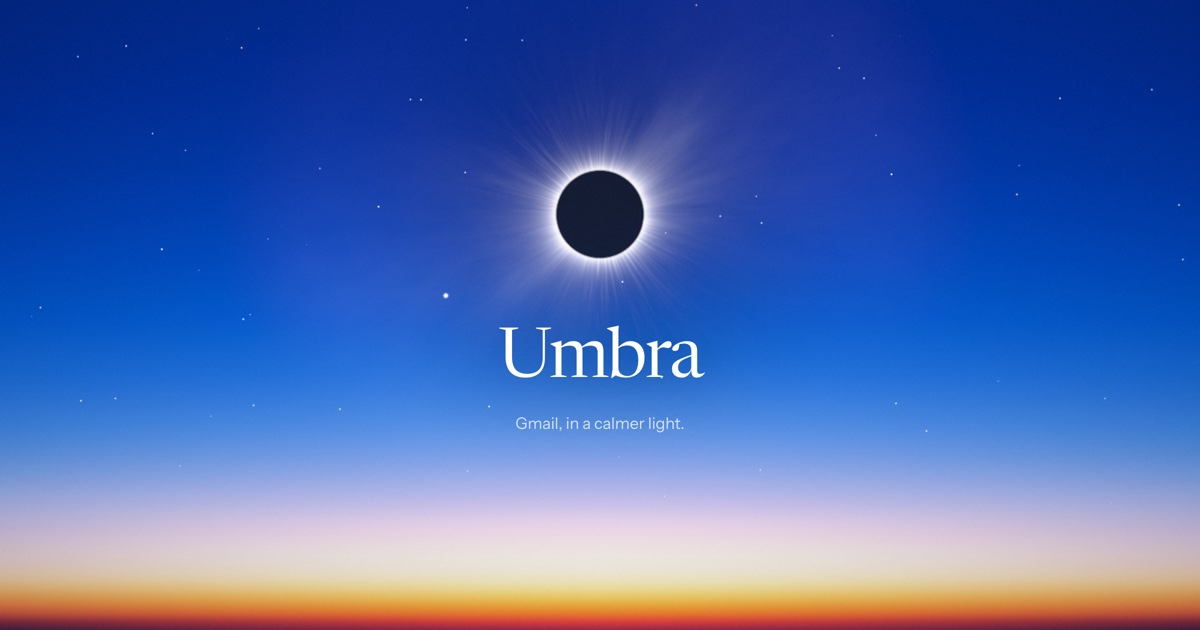
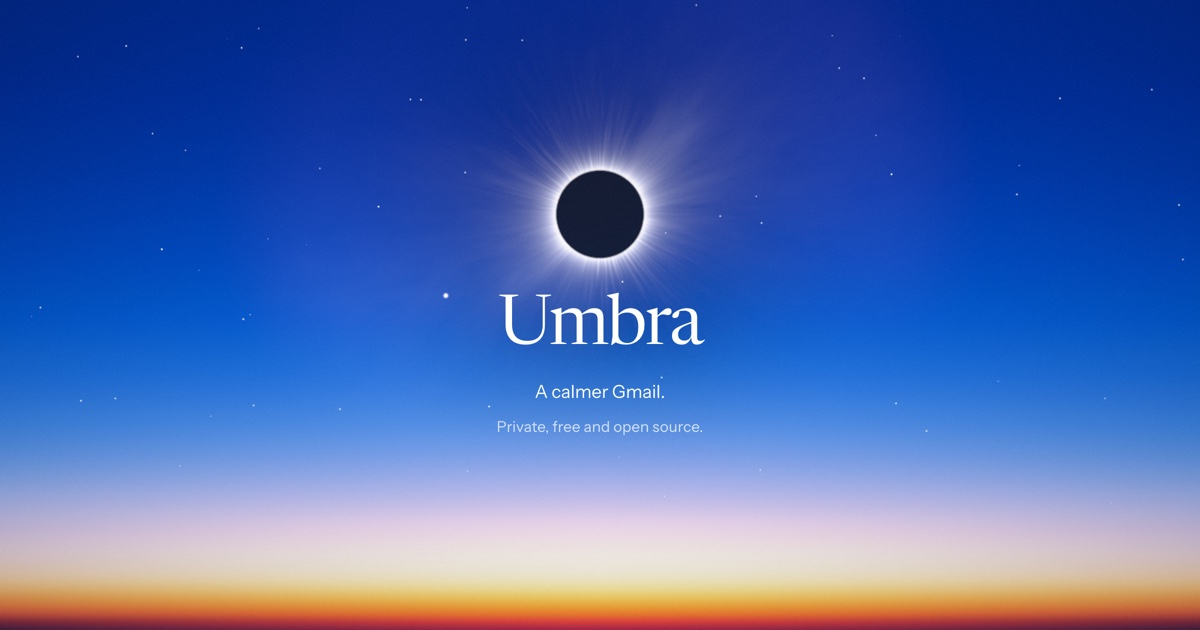
Plain words: "A calmer Gmail." Private, free and open source
- Site: the plain tagline, four plain notes under the demo, Install
- The welcome: "A calmer Gmail.", "What Umbra does", "Do you want AI?"
- The same description for the userscript, the extension and the store
- The site's window moves with the page; the demo loads from /demo

Changed region(s): [[0.4008, 0.4524, 0.5858, 0.6333], [0.4008, 0.6635, 0.5858, 0.6937]]

diff --git a/site/index.html b/site/index.html
@@ -3,8 +3,8 @@
 <head>
 <meta charset="utf-8">
 <meta name="viewport" content="width=device-width, initial-scale=1">
-<title>Umbra · Gmail, in a calmer light</title>
-<meta name="description" content="A calmer Gmail. Mail in tides, a morning paper, AI only if you want it. Umbra collects zero data.">
+<title>Umbra · A calmer Gmail</title>
+<meta name="description" content="A calmer, private Gmail. New mail comes a few times a day, newsletters go in one page, and AI is optional. No tracking, no server, open source.">
 <meta name="author" content="Mason Chen">
 <meta name="color-scheme" content="dark">
 <meta name="theme-color" content="#011a5c">
@@ -14,8 +14,8 @@
 <link rel="apple-touch-icon" href="/icon128.png">
 <meta property="og:type" content="website">
 <meta property="og:url" content="https://umbra.masn.studio/">
-<meta property="og:title" content="Umbra · Gmail, in a calmer light">
-<meta property="og:description" content="A calmer Gmail. Mail in tides, a morning paper, AI only if you want it. Umbra collects zero data.">
+<meta property="og:title" content="Umbra · A calmer Gmail">
+<meta property="og:description" content="A calmer, private Gmail. New mail comes a few times a day, newsletters go in one page, and AI is optional. No tracking, no server, open source.">
 <meta property="og:image" content="https://umbra.masn.studio/og.jpg">
 <meta property="og:image:width" content="1200">
 <meta property="og:image:height" content="630">
@@ -38,25 +38,27 @@
 
 <section class="hero">
   <h1 class="in">Umbra</h1>
-  <p class="tag in">Gmail, in a calmer light.</p>
+  <p class="tag in">A calmer Gmail.</p>
+  <p class="sub in">Private, free and open source.</p>
   <div class="cta in"><a class="btn main" href="#install">Install</a></div>
 </section>
 
 <main>
-  <section class="show" aria-label="Umbra, in action">
+  <section class="show" aria-label="What Umbra looks like">
     <div class="window">
       <div class="bar" aria-hidden="true"><i></i><i></i><i></i><span>mail.google.com</span></div>
-      <div class="screen"><iframe id="demo" src="/demo.html" title="Umbra, in action: an inbox that's made up" tabindex="-1" loading="lazy"></iframe></div>
+      <div class="screen"><iframe id="demo" src="/demo" title="A demo of Umbra, with made-up emails" tabindex="-1" loading="lazy"></iframe></div>
     </div>
     <ul class="notes">
-      <li>Mail in tides</li>
-      <li>A morning paper</li>
-      <li>AI, only if you want it</li>
+      <li>New mail a few times a day</li>
+      <li>Newsletters in one page</li>
+      <li>Optional AI</li>
+      <li>Nothing leaves your computer</li>
     </ul>
   </section>
 
   <section class="block install" id="install">
-    <h2>Calm, in a minute.</h2>
+    <h2>Install</h2>
     <a class="btn main" id="get" href="/umbra.user.js" target="_blank" rel="noopener">Install Umbra</a>
     <p class="state" id="state" role="status" aria-live="polite"></p>
     <p class="how">Runs in <a href="https://violentmonkey.github.io/get-it/" rel="noopener">Violentmonkey</a> or <a href="https://www.tampermonkey.net/" rel="noopener">Tampermonkey</a>, in any browser. Or the <a href="/umbra-extension.zip" download>Chrome extension</a>.</p>

diff --git a/src/parts/75-intro.js b/src/parts/75-intro.js
@@ -30,7 +30,7 @@ function intro(replay) {
   const begin = h("button", { type: "button", class: "qm-i-btn qm-i-main qm-i-go", "data-in": "", onclick: () => go(1) }, "Begin");
   const title = h("section", { class: "qm-i-step qm-i-title" },
     h("h1", { "data-in": "" }, "Umbra"),
-    h("p", { class: "qm-i-tag", "data-in": "" }, "Gmail, in a calmer light."),
+    h("p", { class: "qm-i-tag", "data-in": "" }, "A calmer Gmail."),
     begin);
 
   /* ---- page 1: what Umbra is (and the one choice that changes how mail reaches you) */
@@ -38,17 +38,17 @@ function intro(replay) {
   const drawTides = () => tideSeg.replaceChildren(...[["As it comes", "off"], ["Twice a day", "two"], ["Three times", "three"]].map(([l, v]) => pill(l, pick.tides === v, () => { pick.tides = v; drawTides(); })));
   drawTides();
   const what = h("section", { class: "qm-i-step qm-i-page" },
-    h("h2", { "data-in": "" }, "Gmail, calmer."),
+    h("h2", { "data-in": "" }, "What Umbra does"),
     h("ul", { class: "qm-i-lines" },
-      h("li", { "data-in": "" }, "The Gmail you have, redrawn to be read."),
-      h("li", { "data-in": "" }, "New mail can come in tides, a few times a day."),
-      h("li", { "data-in": "" }, "Nothing leaves this computer. Umbra has no server.")),
+      h("li", { "data-in": "" }, "Redraws your Gmail so it's easy to read."),
+      h("li", { "data-in": "" }, "Can bring new mail a few times a day, all at once."),
+      h("li", { "data-in": "" }, "Keeps everything on your computer. No server, no tracking.")),
     h("div", { class: "qm-i-choice", "data-in": "" }, h("span", { class: "qm-i-label", text: "New mail" }), tideSeg),
     h("div", { class: "qm-i-actions", "data-in": "" },
       h("button", { type: "button", class: "qm-i-btn qm-i-main", onclick: () => go(2) }, "Continue"),
       h("button", { type: "button", class: "qm-i-btn qm-i-ghost", onclick: () => go(0) }, "Back")));
 
-  /* ---- page 2: AI, if you want it */
+  /* ---- page 2: AI, optional */
   const aiPills = h("div", { class: "qm-i-pills", role: "group", "aria-label": "AI" });
   const detail = h("div", { class: "qm-i-detail" });
   const agree = h("input", { type: "checkbox" });
@@ -139,8 +139,8 @@ function intro(replay) {
     }
   }
   const aiPage = h("section", { class: "qm-i-step qm-i-page" },
-    h("h2", { "data-in": "" }, "AI, if you want it."),
-    h("p", { class: "qm-i-sub", "data-in": "" }, "Summaries, suggested replies, answers about your mail."),
+    h("h2", { "data-in": "" }, "Do you want AI?"),
+    h("p", { class: "qm-i-sub", "data-in": "" }, "It can summarize emails, suggest replies and answer questions about your mail. It's off unless you turn it on."),
     h("div", { "data-in": "" }, aiPills),
     h("div", { "data-in": "" }, detail),
     h("div", { "data-in": "" }, agreeRow, aiNote),

diff --git a/site/site.css b/site/site.css
@@ -48,7 +48,8 @@ body.scrolled .mark { opacity: 1; }
 main, footer, .hero { position: relative; z-index: 2; }
 .hero { height: 100vh; height: 100svh; display: flex; flex-direction: column; align-items: center; justify-content: flex-start; padding-top: calc(30vh + max(14vmin, 104px)); text-align: center; }
 h1 { margin: 0; font: 380 clamp(64px, 11vmin, 128px)/1 var(--serif); letter-spacing: -.03em; text-shadow: 0 2px 44px rgba(0, 14, 60, .35); }
-.tag { margin: 16px 0 0; font-size: clamp(16px, 2.2vmin, 19px); color: var(--soft); }
+.tag { margin: 16px 0 0; font-size: clamp(18px, 2.6vmin, 22px); color: #fff; }
+.sub { margin: 8px 0 0; font-size: 15px; color: var(--soft); letter-spacing: .01em; }
 .cta { display: flex; flex-direction: column; align-items: center; gap: 14px; margin-top: 34px; }
 .free { font-size: 13.5px; color: var(--faint); letter-spacing: .01em; }
 
@@ -86,7 +87,8 @@ footer { display: flex; justify-content: space-between; gap: 16px; flex-wrap: wr
 .in { opacity: 0; transform: translateY(14px); filter: blur(5px); transition: opacity 1.1s var(--ease), transform 1.2s var(--ease), filter 1.1s var(--ease); }
 body.lit .in { opacity: 1; transform: none; filter: none; }
 body.lit .tag.in { transition-delay: .12s; }
-body.lit .cta.in { transition-delay: .26s; }
+body.lit .sub.in { transition-delay: .2s; }
+body.lit .cta.in { transition-delay: .3s; }
 .block > * { transition: opacity 1s var(--ease), transform 1.1s var(--ease); }
 .block:not(.seen) > * { opacity: 0; transform: translateY(18px); }
 .block.seen > *:nth-child(2) { transition-delay: .08s; }

diff --git a/site/site.js b/site/site.js
@@ -27,7 +27,8 @@
     root.style.setProperty("--night", (f * 0.96).toFixed(3));
     document.body.classList.toggle("scrolled", scrollY > innerHeight * 0.55);
     if (sky) {
-      sky.P.y = at.y - f * 0.62;
+      // (it moves with the page, as if painted on it: the name under it never slides across it)
+      sky.P.y = at.y - Math.max(0, scrollY) / innerHeight;
       sky.P.dim = f * 0.3;
       sky.poke();
       if (still) sky.still();

diff --git a/site/demo.html b/site/demo.html
@@ -4,7 +4,7 @@
 <meta charset="utf-8">
 <meta name="viewport" content="width=1280">
 <meta name="robots" content="noindex">
-<title>Umbra, in action</title>
+<title>Umbra demo</title>
 <!-- Umbra's own stylesheet and icons, with an inbox that's made up: no one's real mail -->
 <link rel="stylesheet" href="/umbra.css">
 <link rel="stylesheet" href="/demo.css">

diff --git a/docs/STORE.md b/docs/STORE.md
@@ -10,10 +10,10 @@ Everything the Chrome Web Store dashboard asks for, ready to paste. The facts he
 Umbra Mail
 ```
 
-**Short description** (the manifest's `description`, 87 characters; the limit is 132)
+**Short description** (the manifest's `description`, 118 characters; the limit is 132)
 
 ```
-A calm Gmail: mail in tides, a morning paper, files, and threads you can actually read.
+A calmer, private Gmail: new mail a few times a day, newsletters in one page, and conversations that are easy to read.
 ```
 
 **Category:** Productivity, under Communication. Workflow & Planning would also fit.
@@ -49,7 +49,7 @@ FINDING AND DOING
 LOOKS
 • Dark, bright, or match your system. A color, your own picture, or the sky as it is now behind your mail. Glass, grain, fonts and spacing your way.
 
-AI, ONLY IF YOU WANT IT
+OPTIONAL AI
 AI is off until you turn it on. Sign in with ChatGPT (your Plus or Pro plan), choose Gemini, OpenAI or Anthropic with your own API key, or use Chrome's built-in model on your computer. Only what a request needs goes to the provider you choose, straight from your browser.
 
 PRIVACY

diff --git a/README.md b/README.md
@@ -1,6 +1,6 @@
 # Umbra Mail
 
-**Gmail, in a calmer light.** · [umbra.masn.studio](https://umbra.masn.studio) · [Install](https://umbra.masn.studio/#install) · [Privacy](https://umbra.masn.studio/privacy)
+**A calmer Gmail.** Private, free and open source. · [umbra.masn.studio](https://umbra.masn.studio) · [Install](https://umbra.masn.studio/#install) · [Privacy](https://umbra.masn.studio/privacy)
 
 ![Umbra Mail: an inbox on a dusk sky, with a few lines on what matters, the paper, and mail waiting for the tide](docs/screenshot.jpg)
 
